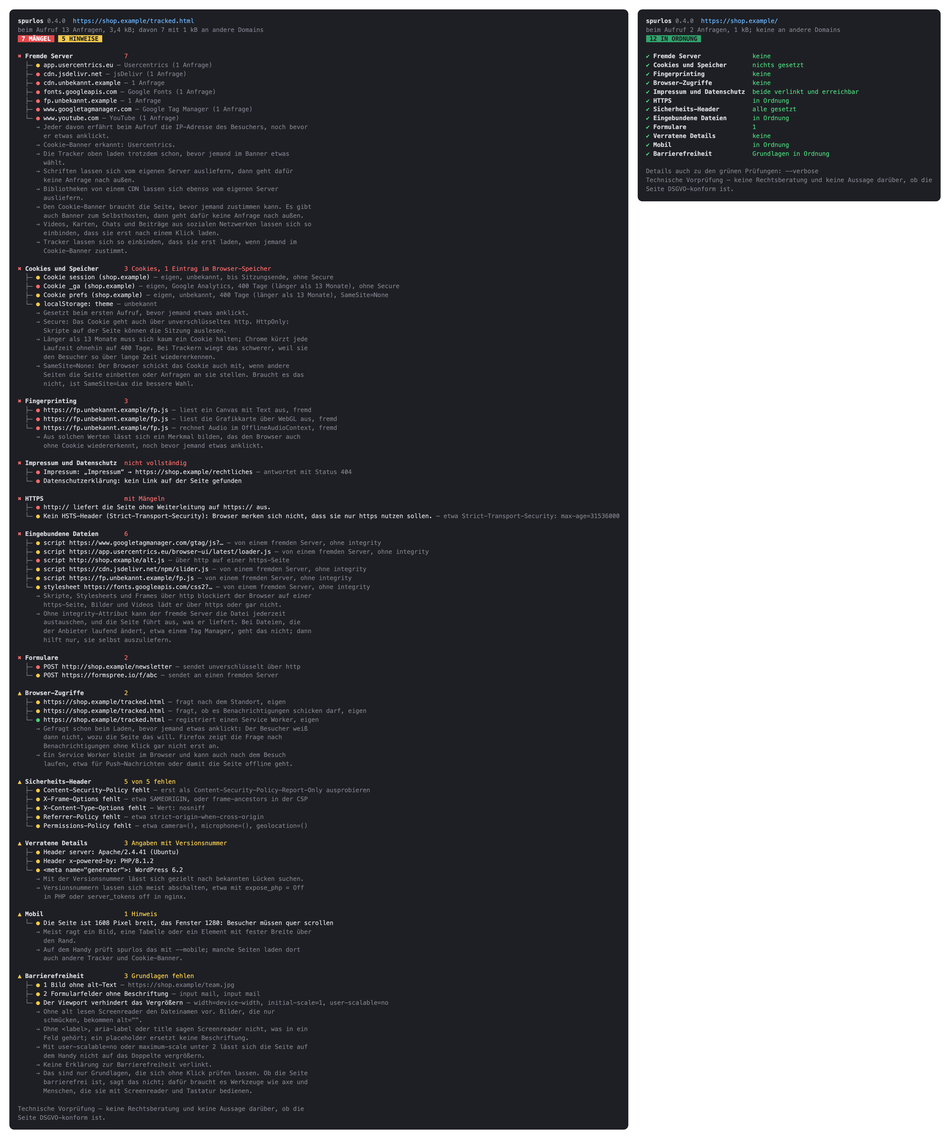
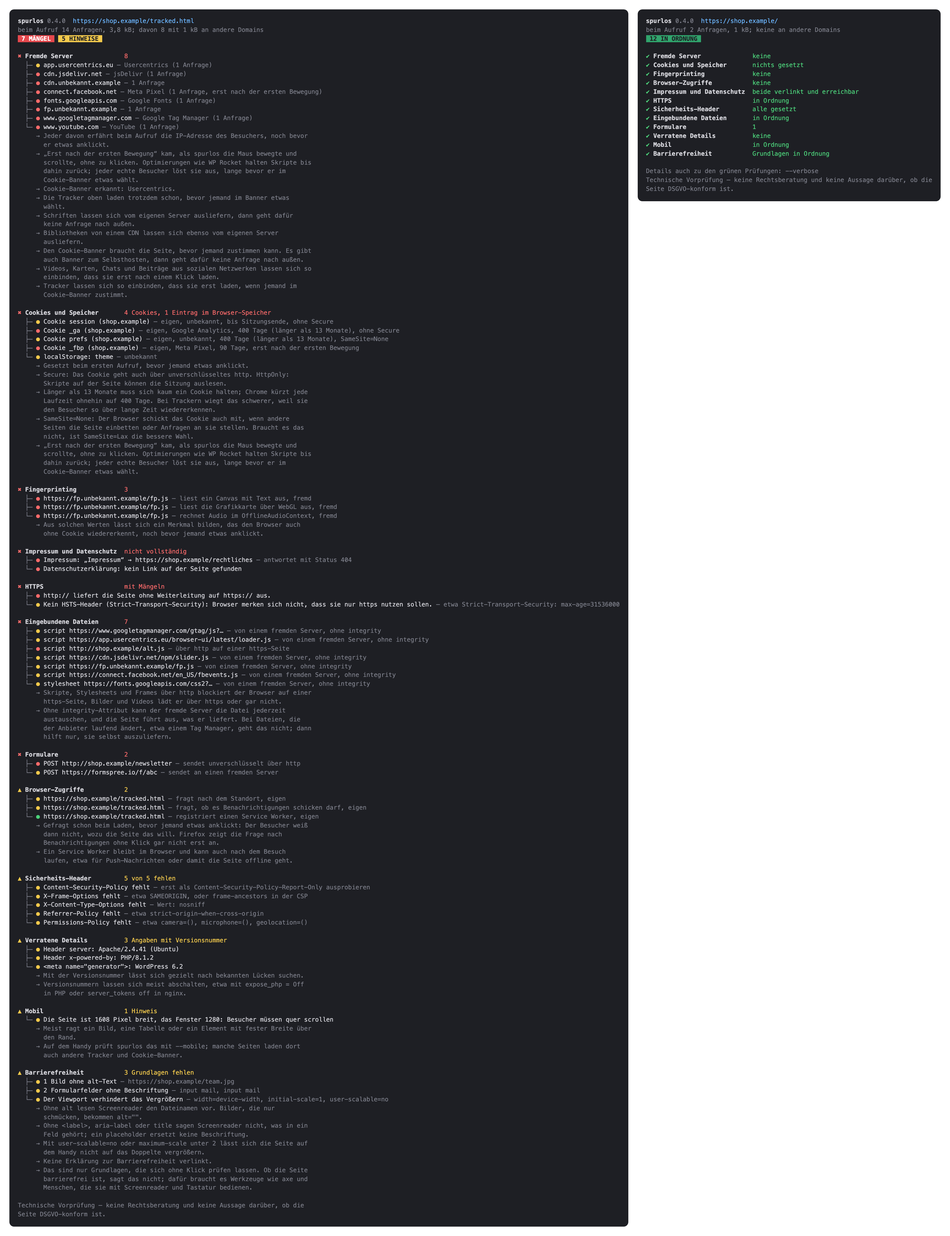
Erste Bewegung: Nach dem Laden bewegt spurlos die Maus und scrollt, ohne zu klicken; Skripte, die Seiten bis dahin zurückhalten (WP Rocket und Co.), zählen mit und sind markiert, in --json als afterMove

Changed region(s): [[0.0, 0.0, 0.4042, 0.9955], [0.653, 0.0, 0.9951, 0.1867]]

diff --git a/examples/mit-maengeln.html b/examples/mit-maengeln.html
@@ -50,8 +50,8 @@ footer { margin-top: 28px; padding-top: 12px; border-top: 1px solid var(--line);
 <div class="top">
 <div>
 <h1>https://shop.example/tracked.html</h1>
-<p class="meta">geprüft am 22. November 2026 um 11:35 MEZ</p>
-<p class="meta">beim Aufruf 13 Anfragen, 3,4 kB; davon 7 mit 1 kB an andere Domains</p>
+<p class="meta">geprüft am 22. November 2026 um 11:47 MEZ</p>
+<p class="meta">beim Aufruf 14 Anfragen, 3,8 kB; davon 8 mit 1 kB an andere Domains</p>
 </div>
 <p class="brand"><svg class="logo light" xmlns="http://www.w3.org/2000/svg" viewBox="0 0 5255.92 1056" role="img" aria-label="spurlos"><title>spurlos</title><g transform="translate(-60.71 -70.67) scale(18.14)"><circle cx="28" cy="28" r="20" fill="none" stroke="#1e1f24" stroke-width="5.5"/><line x1="42.5" y1="42.5" x2="57" y2="57" stroke="#1e1f24" stroke-width="8" stroke-linecap="round"/><circle cx="17.5" cy="28" r="4.6" fill="#e5484d"/><circle cx="28" cy="28" r="4.6" fill="#e0a800"/><circle cx="38.5" cy="28" r="4.6" fill="#1f9d55"/></g><path transform="translate(1195.92 846)" fill="#1e1f24" d="M277 10Q209 10 158 -11.5Q107 -33 78.5 -71Q50 -109 50 -160L200 -160Q200 -136 221.5 -121.5Q243 -107 277 -107L321 -107Q362 -107 383.5 -122Q405 -137 405 -164Q405 -189 386 -202.5Q367 -216 327 -221L263 -229Q160 -242 113 -279Q66 -316 66 -392Q66 -472 121 -516Q176 -560 282 -560L320 -560Q421 -560 481 -516Q541 -472 541 -398L391 -398Q391 -418 371.5 -430.5Q352 -443 320 -443L282 -443Q245 -443 228 -430.5Q211 -418 211 -393Q211 -370 226.5 -358Q242 -346 276 -341L345 -332Q449 -319 499.5 -280Q550 -241 550 -164Q550 -80 492 -35Q434 10 321 10ZM646 180L646 -550L791 -550L791 -445L794 -445Q801 -491 830 -521Q869 -560 937 -560Q1020 -560 1070 -501.5Q1120 -443 1120 -345L1120 -205Q1120 -140 1097.5 -91.5Q1075 -43 1034 -16.5Q993 10 937 10Q869 10 830 -30Q801 -59 794 -105L791 -105L796 30L796 180ZM883 -120Q925 -120 947.5 -143.5Q970 -167 970 -210L970 -340Q970 -384 947.5 -407Q925 -430 883 -430Q842 -430 819 -406.5Q796 -383 796 -340L796 -210Q796 -167 819 -143.5Q842 -120 883 -120ZM1460 10Q1349 10 1286.5 -50Q1224 -110 1224 -214L1224 -550L1374 -550L1374 -215Q1374 -169 1396 -144.5Q1418 -120 1460 -120Q1501 -120 1523.5 -144.5Q1546 -169 1546 -215L1546 -550L1696 -550L1696 -214Q1696 -109 1633 -49.5Q1570 10 1460 10ZM1822 0L1822 -550L1962 -550L1962 -445L1964 -445Q1973 -488 1998 -515Q2039 -560 2118 -560Q2209 -560 2259.5 -505Q2310 -450 2310 -350L2310 -305L2150 -305L2150 -340Q2150 -385 2125.5 -410Q2101 -435 2060 -435Q2017 -435 1994.5 -410Q1972 -385 1972 -340L1972 0ZM2710 0Q2652 0 2608 -24.5Q2564 -49 2539.5 -93Q2515 -137 2515 -195L2515 -595L2345 -595L2345 -730L2665 -730L2665 -195Q2665 -168 2681.5 -151.5Q2698 -135 2725 -135L2885 -135L2885 0ZM3200 10Q3127 10 3073 -17.5Q3019 -45 2989.5 -94.5Q2960 -144 2960 -210L2960 -340Q2960 -406 2989.5 -455.5Q3019 -505 3073 -532.5Q3127 -560 3200 -560Q3274 -560 3327.5 -532.5Q3381 -505 3410.5 -455.5Q3440 -406 3440 -340L3440 -210Q3440 -144 3410.5 -94.5Q3381 -45 3327.5 -17.5Q3274 10 3200 10ZM3200 -120Q3244 -120 3267 -143.5Q3290 -167 3290 -210L3290 -340Q3290 -384 3267 -407Q3244 -430 3200 -430Q3157 -430 3133.5 -407Q3110 -384 3110 -340L3110 -210Q3110 -167 3133.5 -143.5Q3157 -120 3200 -120ZM3757 10Q3689 10 3638 -11.5Q3587 -33 3558.5 -71Q3530 -109 3530 -160L3680 -160Q3680 -136 3701.5 -121.5Q3723 -107 3757 -107L3801 -107Q3842 -107 3863.5 -122Q3885 -137 3885 -164Q3885 -189 3866 -202.5Q3847 -216 3807 -221L3743 -229Q3640 -242 3593 -279Q3546 -316 3546 -392Q3546 -472 3601 -516Q3656 -560 3762 -560L3800 -560Q3901 -560 3961 -516Q4021 -472 4021 -398L3871 -398Q3871 -418 3851.5 -430.5Q3832 -443 3800 -443L3762 -443Q3725 -443 3708 -430.5Q3691 -418 3691 -393Q3691 -370 3706.5 -358Q3722 -346 3756 -341L3825 -332Q3929 -319 3979.5 -280Q4030 -241 4030 -164Q4030 -80 3972 -35Q3914 10 3801 10Z"/></svg>
 <svg class="logo dark" xmlns="http://www.w3.org/2000/svg" viewBox="0 0 5255.92 1056" role="img" aria-label="spurlos"><title>spurlos</title><g transform="translate(-60.71 -70.67) scale(18.14)"><circle cx="28" cy="28" r="20" fill="none" stroke="#e9e9ee" stroke-width="5.5"/><line x1="42.5" y1="42.5" x2="57" y2="57" stroke="#e9e9ee" stroke-width="8" stroke-linecap="round"/><circle cx="17.5" cy="28" r="4.6" fill="#ff6b6b"/><circle cx="28" cy="28" r="4.6" fill="#f2c94c"/><circle cx="38.5" cy="28" r="4.6" fill="#4cd17a"/></g><path transform="translate(1195.92 846)" fill="#e9e9ee" d="M277 10Q209 10 158 -11.5Q107 -33 78.5 -71Q50 -109 50 -160L200 -160Q200 -136 221.5 -121.5Q243 -107 277 -107L321 -107Q362 -107 383.5 -122Q405 -137 405 -164Q405 -189 386 -202.5Q367 -216 327 -221L263 -229Q160 -242 113 -279Q66 -316 66 -392Q66 -472 121 -516Q176 -560 282 -560L320 -560Q421 -560 481 -516Q541 -472 541 -398L391 -398Q391 -418 371.5 -430.5Q352 -443 320 -443L282 -443Q245 -443 228 -430.5Q211 -418 211 -393Q211 -370 226.5 -358Q242 -346 276 -341L345 -332Q449 -319 499.5 -280Q550 -241 550 -164Q550 -80 492 -35Q434 10 321 10ZM646 180L646 -550L791 -550L791 -445L794 -445Q801 -491 830 -521Q869 -560 937 -560Q1020 -560 1070 -501.5Q1120 -443 1120 -345L1120 -205Q1120 -140 1097.5 -91.5Q1075 -43 1034 -16.5Q993 10 937 10Q869 10 830 -30Q801 -59 794 -105L791 -105L796 30L796 180ZM883 -120Q925 -120 947.5 -143.5Q970 -167 970 -210L970 -340Q970 -384 947.5 -407Q925 -430 883 -430Q842 -430 819 -406.5Q796 -383 796 -340L796 -210Q796 -167 819 -143.5Q842 -120 883 -120ZM1460 10Q1349 10 1286.5 -50Q1224 -110 1224 -214L1224 -550L1374 -550L1374 -215Q1374 -169 1396 -144.5Q1418 -120 1460 -120Q1501 -120 1523.5 -144.5Q1546 -169 1546 -215L1546 -550L1696 -550L1696 -214Q1696 -109 1633 -49.5Q1570 10 1460 10ZM1822 0L1822 -550L1962 -550L1962 -445L1964 -445Q1973 -488 1998 -515Q2039 -560 2118 -560Q2209 -560 2259.5 -505Q2310 -450 2310 -350L2310 -305L2150 -305L2150 -340Q2150 -385 2125.5 -410Q2101 -435 2060 -435Q2017 -435 1994.5 -410Q1972 -385 1972 -340L1972 0ZM2710 0Q2652 0 2608 -24.5Q2564 -49 2539.5 -93Q2515 -137 2515 -195L2515 -595L2345 -595L2345 -730L2665 -730L2665 -195Q2665 -168 2681.5 -151.5Q2698 -135 2725 -135L2885 -135L2885 0ZM3200 10Q3127 10 3073 -17.5Q3019 -45 2989.5 -94.5Q2960 -144 2960 -210L2960 -340Q2960 -406 2989.5 -455.5Q3019 -505 3073 -532.5Q3127 -560 3200 -560Q3274 -560 3327.5 -532.5Q3381 -505 3410.5 -455.5Q3440 -406 3440 -340L3440 -210Q3440 -144 3410.5 -94.5Q3381 -45 3327.5 -17.5Q3274 10 3200 10ZM3200 -120Q3244 -120 3267 -143.5Q3290 -167 3290 -210L3290 -340Q3290 -384 3267 -407Q3244 -430 3200 -430Q3157 -430 3133.5 -407Q3110 -384 3110 -340L3110 -210Q3110 -167 3133.5 -143.5Q3157 -120 3200 -120ZM3757 10Q3689 10 3638 -11.5Q3587 -33 3558.5 -71Q3530 -109 3530 -160L3680 -160Q3680 -136 3701.5 -121.5Q3723 -107 3757 -107L3801 -107Q3842 -107 3863.5 -122Q3885 -137 3885 -164Q3885 -189 3866 -202.5Q3847 -216 3807 -221L3743 -229Q3640 -242 3593 -279Q3546 -316 3546 -392Q3546 -472 3601 -516Q3656 -560 3762 -560L3800 -560Q3901 -560 3961 -516Q4021 -472 4021 -398L3871 -398Q3871 -418 3851.5 -430.5Q3832 -443 3800 -443L3762 -443Q3725 -443 3708 -430.5Q3691 -418 3691 -393Q3691 -370 3706.5 -358Q3722 -346 3756 -341L3825 -332Q3929 -319 3979.5 -280Q4030 -241 4030 -164Q4030 -80 3972 -35Q3914 10 3801 10Z"/></svg>
@@ -59,12 +59,12 @@ footer { margin-top: 28px; padding-top: 12px; border-top: 1px solid var(--line);
 </div>
 <p class="summary"><span class="badge red">7 Mängel</span> <span class="badge yellow">5 Hinweise</span></p>
 </header>
-<details class="check red" open><summary class="head"><span class="mark">✖</span><span class="title">Fremde Server</span><span class="value">7</span></summary><ul><li class="yellow">app.usercentrics.eu<span class="detail"> – Usercentrics (1 Anfrage)</span></li><li class="red">cdn.jsdelivr.net<span class="detail"> – jsDelivr (1 Anfrage)</span></li><li class="red">cdn.unbekannt.example<span class="detail"> – 1 Anfrage</span></li><li class="red">fonts.googleapis.com<span class="detail"> – Google Fonts (1 Anfrage)</span></li><li class="red">fp.unbekannt.example<span class="detail"> – 1 Anfrage</span></li><li class="red">www.googletagmanager.com<span class="detail"> – Google Tag Manager (1 Anfrage)</span></li><li class="red">www.youtube.com<span class="detail"> – YouTube (1 Anfrage)</span></li></ul><p class="note">Jeder davon erfährt beim Aufruf die IP-Adresse des Besuchers, noch bevor er etwas anklickt.</p><p class="note">Cookie-Banner erkannt: Usercentrics.</p><p class="note">Die Tracker oben laden trotzdem schon, bevor jemand im Banner etwas wählt.</p><p class="note">Schriften lassen sich vom eigenen Server ausliefern, dann geht dafür keine Anfrage nach außen.</p><p class="note">Bibliotheken von einem CDN lassen sich ebenso vom eigenen Server ausliefern.</p><p class="note">Den Cookie-Banner braucht die Seite, bevor jemand zustimmen kann. Es gibt auch Banner zum Selbsthosten, dann geht dafür keine Anfrage nach außen.</p><p class="note">Videos, Karten, Chats und Beiträge aus sozialen Netzwerken lassen sich so einbinden, dass sie erst nach einem Klick laden.</p><p class="note">Tracker lassen sich so einbinden, dass sie erst laden, wenn jemand im Cookie-Banner zustimmt.</p></details>
-<details class="check red" open><summary class="head"><span class="mark">✖</span><span class="title">Cookies und Speicher</span><span class="value">3 Cookies, 1 Eintrag im Browser-Speicher</span></summary><ul><li class="yellow">Cookie session (shop.example)<span class="detail"> – eigen, unbekannt, bis Sitzungsende, ohne Secure</span></li><li class="red">Cookie _ga (shop.example)<span class="detail"> – eigen, Google Analytics, 400 Tage (länger als 13 Monate), ohne Secure</span></li><li class="yellow">Cookie prefs (shop.example)<span class="detail"> – eigen, unbekannt, 400 Tage (länger als 13 Monate), SameSite=None</span></li><li class="yellow">localStorage: theme<span class="detail"> – unbekannt</span></li></ul><p class="note">Gesetzt beim ersten Aufruf, bevor jemand etwas anklickt.</p><p class="note">Secure: Das Cookie geht auch über unverschlüsseltes http. HttpOnly: Skripte auf der Seite können die Sitzung auslesen.</p><p class="note">Länger als 13 Monate muss sich kaum ein Cookie halten; Chrome kürzt jede Laufzeit ohnehin auf 400 Tage. Bei Trackern wiegt das schwerer, weil sie den Besucher so über lange Zeit wiedererkennen.</p><p class="note">SameSite=None: Der Browser schickt das Cookie auch mit, wenn andere Seiten die Seite einbetten oder Anfragen an sie stellen. Braucht es das nicht, ist SameSite=Lax die bessere Wahl.</p></details>
+<details class="check red" open><summary class="head"><span class="mark">✖</span><span class="title">Fremde Server</span><span class="value">8</span></summary><ul><li class="yellow">app.usercentrics.eu<span class="detail"> – Usercentrics (1 Anfrage)</span></li><li class="red">cdn.jsdelivr.net<span class="detail"> – jsDelivr (1 Anfrage)</span></li><li class="red">cdn.unbekannt.example<span class="detail"> – 1 Anfrage</span></li><li class="red">connect.facebook.net<span class="detail"> – Meta Pixel (1 Anfrage, erst nach der ersten Bewegung)</span></li><li class="red">fonts.googleapis.com<span class="detail"> – Google Fonts (1 Anfrage)</span></li><li class="red">fp.unbekannt.example<span class="detail"> – 1 Anfrage</span></li><li class="red">www.googletagmanager.com<span class="detail"> – Google Tag Manager (1 Anfrage)</span></li><li class="red">www.youtube.com<span class="detail"> – YouTube (1 Anfrage)</span></li></ul><p class="note">Jeder davon erfährt beim Aufruf die IP-Adresse des Besuchers, noch bevor er etwas anklickt.</p><p class="note">„Erst nach der ersten Bewegung“ kam, als spurlos die Maus bewegte und scrollte, ohne zu klicken. Optimierungen wie WP Rocket halten Skripte bis dahin zurück; jeder echte Besucher löst sie aus, lange bevor er im Cookie-Banner etwas wählt.</p><p class="note">Cookie-Banner erkannt: Usercentrics.</p><p class="note">Die Tracker oben laden trotzdem schon, bevor jemand im Banner etwas wählt.</p><p class="note">Schriften lassen sich vom eigenen Server ausliefern, dann geht dafür keine Anfrage nach außen.</p><p class="note">Bibliotheken von einem CDN lassen sich ebenso vom eigenen Server ausliefern.</p><p class="note">Den Cookie-Banner braucht die Seite, bevor jemand zustimmen kann. Es gibt auch Banner zum Selbsthosten, dann geht dafür keine Anfrage nach außen.</p><p class="note">Videos, Karten, Chats und Beiträge aus sozialen Netzwerken lassen sich so einbinden, dass sie erst nach einem Klick laden.</p><p class="note">Tracker lassen sich so einbinden, dass sie erst laden, wenn jemand im Cookie-Banner zustimmt.</p></details>
+<details class="check red" open><summary class="head"><span class="mark">✖</span><span class="title">Cookies und Speicher</span><span class="value">4 Cookies, 1 Eintrag im Browser-Speicher</span></summary><ul><li class="yellow">Cookie session (shop.example)<span class="detail"> – eigen, unbekannt, bis Sitzungsende, ohne Secure</span></li><li class="red">Cookie _ga (shop.example)<span class="detail"> – eigen, Google Analytics, 400 Tage (länger als 13 Monate), ohne Secure</span></li><li class="yellow">Cookie prefs (shop.example)<span class="detail"> – eigen, unbekannt, 400 Tage (länger als 13 Monate), SameSite=None</span></li><li class="red">Cookie _fbp (shop.example)<span class="detail"> – eigen, Meta Pixel, 90 Tage, erst nach der ersten Bewegung</span></li><li class="yellow">localStorage: theme<span class="detail"> – unbekannt</span></li></ul><p class="note">Gesetzt beim ersten Aufruf, bevor jemand etwas anklickt.</p><p class="note">Secure: Das Cookie geht auch über unverschlüsseltes http. HttpOnly: Skripte auf der Seite können die Sitzung auslesen.</p><p class="note">Länger als 13 Monate muss sich kaum ein Cookie halten; Chrome kürzt jede Laufzeit ohnehin auf 400 Tage. Bei Trackern wiegt das schwerer, weil sie den Besucher so über lange Zeit wiedererkennen.</p><p class="note">SameSite=None: Der Browser schickt das Cookie auch mit, wenn andere Seiten die Seite einbetten oder Anfragen an sie stellen. Braucht es das nicht, ist SameSite=Lax die bessere Wahl.</p><p class="note">„Erst nach der ersten Bewegung“ kam, als spurlos die Maus bewegte und scrollte, ohne zu klicken. Optimierungen wie WP Rocket halten Skripte bis dahin zurück; jeder echte Besucher löst sie aus, lange bevor er im Cookie-Banner etwas wählt.</p></details>
 <details class="check red" open><summary class="head"><span class="mark">✖</span><span class="title">Fingerprinting</span><span class="value">3</span></summary><ul><li class="red">https://fp.unbekannt.example/fp.js<span class="detail"> – liest ein Canvas mit Text aus, fremd</span></li><li class="red">https://fp.unbekannt.example/fp.js<span class="detail"> – liest die Grafikkarte über WebGL aus, fremd</span></li><li class="red">https://fp.unbekannt.example/fp.js<span class="detail"> – rechnet Audio im OfflineAudioContext, fremd</span></li></ul><p class="note">Aus solchen Werten lässt sich ein Merkmal bilden, das den Browser auch ohne Cookie wiedererkennt, noch bevor jemand etwas anklickt.</p></details>
 <details class="check red" open><summary class="head"><span class="mark">✖</span><span class="title">Impressum und Datenschutz</span><span class="value">nicht vollständig</span></summary><ul><li class="red">Impressum: „Impressum“ → https://shop.example/rechtliches<span class="detail"> – antwortet mit Status 404</span></li><li class="red">Datenschutzerklärung: kein Link auf der Seite gefunden</li></ul></details>
 <details class="check red" open><summary class="head"><span class="mark">✖</span><span class="title">HTTPS</span><span class="value">mit Mängeln</span></summary><ul><li class="red">http:// liefert die Seite ohne Weiterleitung auf https:// aus.</li><li class="yellow">Kein HSTS-Header (Strict-Transport-Security): Browser merken sich nicht, dass sie nur https nutzen sollen.<span class="detail"> – etwa Strict-Transport-Security: max-age=31536000</span></li></ul></details>
-<details class="check red" open><summary class="head"><span class="mark">✖</span><span class="title">Eingebundene Dateien</span><span class="value">6</span></summary><ul><li class="yellow">script https://www.googletagmanager.com/gtag/js?…<span class="detail"> – von einem fremden Server, ohne integrity</span></li><li class="yellow">script https://app.usercentrics.eu/browser-ui/latest/loader.js<span class="detail"> – von einem fremden Server, ohne integrity</span></li><li class="red">script http://shop.example/alt.js<span class="detail"> – über http auf einer https-Seite</span></li><li class="yellow">script https://cdn.jsdelivr.net/npm/slider.js<span class="detail"> – von einem fremden Server, ohne integrity</span></li><li class="yellow">script https://fp.unbekannt.example/fp.js<span class="detail"> – von einem fremden Server, ohne integrity</span></li><li class="yellow">stylesheet https://fonts.googleapis.com/css2?…<span class="detail"> – von einem fremden Server, ohne integrity</span></li></ul><p class="note">Skripte, Stylesheets und Frames über http blockiert der Browser auf einer https-Seite, Bilder und Videos lädt er über https oder gar nicht.</p><p class="note">Ohne integrity-Attribut kann der fremde Server die Datei jederzeit austauschen, und die Seite führt aus, was er liefert. Bei Dateien, die der Anbieter laufend ändert, etwa einem Tag Manager, geht das nicht; dann hilft nur, sie selbst auszuliefern.</p></details>
+<details class="check red" open><summary class="head"><span class="mark">✖</span><span class="title">Eingebundene Dateien</span><span class="value">7</span></summary><ul><li class="yellow">script https://www.googletagmanager.com/gtag/js?…<span class="detail"> – von einem fremden Server, ohne integrity</span></li><li class="yellow">script https://app.usercentrics.eu/browser-ui/latest/loader.js<span class="detail"> – von einem fremden Server, ohne integrity</span></li><li class="red">script http://shop.example/alt.js<span class="detail"> – über http auf einer https-Seite</span></li><li class="yellow">script https://cdn.jsdelivr.net/npm/slider.js<span class="detail"> – von einem fremden Server, ohne integrity</span></li><li class="yellow">script https://fp.unbekannt.example/fp.js<span class="detail"> – von einem fremden Server, ohne integrity</span></li><li class="yellow">script https://connect.facebook.net/en_US/fbevents.js<span class="detail"> – von einem fremden Server, ohne integrity</span></li><li class="yellow">stylesheet https://fonts.googleapis.com/css2?…<span class="detail"> – von einem fremden Server, ohne integrity</span></li></ul><p class="note">Skripte, Stylesheets und Frames über http blockiert der Browser auf einer https-Seite, Bilder und Videos lädt er über https oder gar nicht.</p><p class="note">Ohne integrity-Attribut kann der fremde Server die Datei jederzeit austauschen, und die Seite führt aus, was er liefert. Bei Dateien, die der Anbieter laufend ändert, etwa einem Tag Manager, geht das nicht; dann hilft nur, sie selbst auszuliefern.</p></details>
 <details class="check red" open><summary class="head"><span class="mark">✖</span><span class="title">Formulare</span><span class="value">2</span></summary><ul><li class="red">POST http://shop.example/newsletter<span class="detail"> – sendet unverschlüsselt über http</span></li><li class="yellow">POST https://formspree.io/f/abc<span class="detail"> – sendet an einen fremden Server</span></li></ul></details>
 <details class="check yellow" open><summary class="head"><span class="mark">▲</span><span class="title">Browser-Zugriffe</span><span class="value">2</span></summary><ul><li class="yellow">https://shop.example/tracked.html<span class="detail"> – fragt nach dem Standort, eigen</span></li><li class="yellow">https://shop.example/tracked.html<span class="detail"> – fragt, ob es Benachrichtigungen schicken darf, eigen</span></li><li class="green">https://shop.example/tracked.html<span class="detail"> – registriert einen Service Worker, eigen</span></li></ul><p class="note">Gefragt schon beim Laden, bevor jemand etwas anklickt: Der Besucher weiß dann nicht, wozu die Seite das will. Firefox zeigt die Frage nach Benachrichtigungen ohne Klick gar nicht erst an.</p><p class="note">Ein Service Worker bleibt im Browser und kann auch nach dem Besuch laufen, etwa für Push-Nachrichten oder damit die Seite offline geht.</p></details>
 <details class="check yellow" open><summary class="head"><span class="mark">▲</span><span class="title">Sicherheits-Header</span><span class="value">5 von 5 fehlen</span></summary><ul><li class="yellow">Content-Security-Policy fehlt<span class="detail"> – erst als Content-Security-Policy-Report-Only ausprobieren</span></li><li class="yellow">X-Frame-Options fehlt<span class="detail"> – etwa SAMEORIGIN, oder frame-ancestors in der CSP</span></li><li class="yellow">X-Content-Type-Options fehlt<span class="detail"> – Wert: nosniff</span></li><li class="yellow">Referrer-Policy fehlt<span class="detail"> – etwa strict-origin-when-cross-origin</span></li><li class="yellow">Permissions-Policy fehlt<span class="detail"> – etwa camera=(), microphone=(), geolocation=()</span></li></ul></details>

diff --git a/src/scan.ts b/src/scan.ts
@@ -57,11 +57,13 @@ export function browserAgent(chromeVersion: string, platform = process.platform,
 
 /**
  * type: as Playwright names it (script, image, fetch …), websocket for a WebSocket and webrtc for a STUN or TURN
- * server, which Playwright does not report as requests; url is then the server's address as the page gave it. bytes: what went over the wire for the answer, headers and encoded body; missing where none came
+ * server, which Playwright does not report as requests; url is then the server's address as the page gave it.
+ * bytes: what went over the wire for the answer, headers and encoded body; missing where none came.
+ * afterMove: it came only once spurlos moved the mouse and scrolled, as scripts held back until then do
  */
-export type Request = { url: string; host: string; type: string; bytes?: number }
+export type Request = { url: string; host: string; type: string; bytes?: number; afterMove?: true }
 /** expires: in seconds since 1970, -1 for a session cookie; sameSite: missing in a scan of an older spurlos */
-export type Cookie = { name: string; domain: string; expires: number; secure: boolean; httpOnly: boolean; sameSite?: 'Strict' | 'Lax' | 'None' }
+export type Cookie = { name: string; domain: string; expires: number; secure: boolean; httpOnly: boolean; sameSite?: 'Strict' | 'Lax' | 'None'; afterMove?: true }
 export type StorageEntry = { area: 'localStorage' | 'sessionStorage'; key: string }
 export type Link = { text: string; href: string }
 export type Form = { action: string; method: string }
@@ -413,16 +415,26 @@ export async function scan(url: string, options: ScanOptions = {}): Promise<Scan
       .waitForLoadState('networkidle', { timeout: options.settleMs ?? 10_000 })
       .then(() => true, () => false)
 
-    const cookies = (await context.cookies()).map(c => ({
+    // what a visitor sees first, cookie banner included; a page that cannot be pictured still gets its report
+    const screenshot = options.screenshot ? await page.screenshot({ type: 'jpeg', quality: 70 }).then(b => b.toString('base64'), () => undefined) : undefined
+
+    // A visitor moves the mouse and scrolls before any click. Optimizers such as WP Rocket hold scripts back until
+    // then, trackers among them: spurlos does the same, clicks nothing, and marks what comes only now.
+    const cookieKey = (c: { name: string; domain: string }) => `${c.name} ${c.domain}`
+    const early = new Set((await context.cookies()).map(cookieKey))
+    const before = requests.length
+    const quiet = await firstMove(page, requests, options.settleMs ?? 10_000)
+    for (const r of requests.slice(before)) r.afterMove = true
+
+    const cookies = (await context.cookies()).map((c): Cookie => ({
       name: c.name,
       domain: c.domain.replace(/^\./, ''),
       expires: c.expires,
       secure: c.secure,
       httpOnly: c.httpOnly,
       sameSite: c.sameSite,
+      ...(early.has(cookieKey(c)) ? {} : { afterMove: true as const }),
     }))
-    // what a visitor sees first, cookie banner included; a page that cannot be pictured still gets its report
-    const screenshot = options.screenshot ? await page.screenshot({ type: 'jpeg', quality: 70 }).then(b => b.toString('base64'), () => undefined) : undefined
     const { storage, links, forms, resources, metaCsp, metaReferrer, generator, accessibility, preconnect, width } = await page.evaluate(() => {
       const storage: StorageEntry[] = []
       for (const area of ['localStorage', 'sessionStorage'] as const) {
@@ -494,7 +506,7 @@ export async function scan(url: string, options: ScanOptions = {}): Promise<Scan
     const result: Scan = {
       url,
       finalUrl,
-      settled,
+      settled: settled && quiet,
       requests,
       cookies,
       storage,
@@ -531,6 +543,33 @@ export async function scan(url: string, options: ScanOptions = {}): Promise<Scan
   } finally {
     await browser.close()
   }
+}
+
+/**
+ * Moves the mouse over the page and scrolls a little, without a click, as a visitor does before deciding anything;
+ * then waits until no request has come for a second, at most half the settle time. Back at the top afterwards, so the
+ * page is read as it was first shown. False when requests kept coming.
+ */
+async function firstMove(page: Page, requests: Request[], settleMs: number): Promise<boolean> {
+  try {
+    await page.mouse.move(120, 120)
+    await page.mouse.move(360, 280, { steps: 5 })
+    await page.mouse.wheel(0, 400)
+  } catch {
+    // a page that will not be moved over still gets its report
+  }
+  const end = Date.now() + settleMs / 2
+  let count = requests.length
+  let since = Date.now()
+  while (Date.now() < end) {
+    await page.waitForTimeout(250)
+    if (requests.length !== count) {
+      count = requests.length
+      since = Date.now()
+    } else if (Date.now() - since >= 1000) break
+  }
+  await page.evaluate(() => window.scrollTo(0, 0)).catch(() => {})
+  return Date.now() < end
 }
 
 /** A second, separate browser for opening single URLs: only the documents load, nothing of it counts towards the scan. */

diff --git a/examples/sauber.html b/examples/sauber.html
@@ -50,7 +50,7 @@ footer { margin-top: 28px; padding-top: 12px; border-top: 1px solid var(--line);
 <div class="top">
 <div>
 <h1>https://shop.example/</h1>
-<p class="meta">geprüft am 22. November 2026 um 11:35 MEZ</p>
+<p class="meta">geprüft am 22. November 2026 um 11:47 MEZ</p>
 <p class="meta">beim Aufruf 2 Anfragen, 1 kB; keine an andere Domains</p>
 </div>
 <p class="brand"><svg class="logo light" xmlns="http://www.w3.org/2000/svg" viewBox="0 0 5255.92 1056" role="img" aria-label="spurlos"><title>spurlos</title><g transform="translate(-60.71 -70.67) scale(18.14)"><circle cx="28" cy="28" r="20" fill="none" stroke="#1e1f24" stroke-width="5.5"/><line x1="42.5" y1="42.5" x2="57" y2="57" stroke="#1e1f24" stroke-width="8" stroke-linecap="round"/><circle cx="17.5" cy="28" r="4.6" fill="#e5484d"/><circle cx="28" cy="28" r="4.6" fill="#e0a800"/><circle cx="38.5" cy="28" r="4.6" fill="#1f9d55"/></g><path transform="translate(1195.92 846)" fill="#1e1f24" d="M277 10Q209 10 158 -11.5Q107 -33 78.5 -71Q50 -109 50 -160L200 -160Q200 -136 221.5 -121.5Q243 -107 277 -107L321 -107Q362 -107 383.5 -122Q405 -137 405 -164Q405 -189 386 -202.5Q367 -216 327 -221L263 -229Q160 -242 113 -279Q66 -316 66 -392Q66 -472 121 -516Q176 -560 282 -560L320 -560Q421 -560 481 -516Q541 -472 541 -398L391 -398Q391 -418 371.5 -430.5Q352 -443 320 -443L282 -443Q245 -443 228 -430.5Q211 -418 211 -393Q211 -370 226.5 -358Q242 -346 276 -341L345 -332Q449 -319 499.5 -280Q550 -241 550 -164Q550 -80 492 -35Q434 10 321 10ZM646 180L646 -550L791 -550L791 -445L794 -445Q801 -491 830 -521Q869 -560 937 -560Q1020 -560 1070 -501.5Q1120 -443 1120 -345L1120 -205Q1120 -140 1097.5 -91.5Q1075 -43 1034 -16.5Q993 10 937 10Q869 10 830 -30Q801 -59 794 -105L791 -105L796 30L796 180ZM883 -120Q925 -120 947.5 -143.5Q970 -167 970 -210L970 -340Q970 -384 947.5 -407Q925 -430 883 -430Q842 -430 819 -406.5Q796 -383 796 -340L796 -210Q796 -167 819 -143.5Q842 -120 883 -120ZM1460 10Q1349 10 1286.5 -50Q1224 -110 1224 -214L1224 -550L1374 -550L1374 -215Q1374 -169 1396 -144.5Q1418 -120 1460 -120Q1501 -120 1523.5 -144.5Q1546 -169 1546 -215L1546 -550L1696 -550L1696 -214Q1696 -109 1633 -49.5Q1570 10 1460 10ZM1822 0L1822 -550L1962 -550L1962 -445L1964 -445Q1973 -488 1998 -515Q2039 -560 2118 -560Q2209 -560 2259.5 -505Q2310 -450 2310 -350L2310 -305L2150 -305L2150 -340Q2150 -385 2125.5 -410Q2101 -435 2060 -435Q2017 -435 1994.5 -410Q1972 -385 1972 -340L1972 0ZM2710 0Q2652 0 2608 -24.5Q2564 -49 2539.5 -93Q2515 -137 2515 -195L2515 -595L2345 -595L2345 -730L2665 -730L2665 -195Q2665 -168 2681.5 -151.5Q2698 -135 2725 -135L2885 -135L2885 0ZM3200 10Q3127 10 3073 -17.5Q3019 -45 2989.5 -94.5Q2960 -144 2960 -210L2960 -340Q2960 -406 2989.5 -455.5Q3019 -505 3073 -532.5Q3127 -560 3200 -560Q3274 -560 3327.5 -532.5Q3381 -505 3410.5 -455.5Q3440 -406 3440 -340L3440 -210Q3440 -144 3410.5 -94.5Q3381 -45 3327.5 -17.5Q3274 10 3200 10ZM3200 -120Q3244 -120 3267 -143.5Q3290 -167 3290 -210L3290 -340Q3290 -384 3267 -407Q3244 -430 3200 -430Q3157 -430 3133.5 -407Q3110 -384 3110 -340L3110 -210Q3110 -167 3133.5 -143.5Q3157 -120 3200 -120ZM3757 10Q3689 10 3638 -11.5Q3587 -33 3558.5 -71Q3530 -109 3530 -160L3680 -160Q3680 -136 3701.5 -121.5Q3723 -107 3757 -107L3801 -107Q3842 -107 3863.5 -122Q3885 -137 3885 -164Q3885 -189 3866 -202.5Q3847 -216 3807 -221L3743 -229Q3640 -242 3593 -279Q3546 -316 3546 -392Q3546 -472 3601 -516Q3656 -560 3762 -560L3800 -560Q3901 -560 3961 -516Q4021 -472 4021 -398L3871 -398Q3871 -418 3851.5 -430.5Q3832 -443 3800 -443L3762 -443Q3725 -443 3708 -430.5Q3691 -418 3691 -393Q3691 -370 3706.5 -358Q3722 -346 3756 -341L3825 -332Q3929 -319 3979.5 -280Q4030 -241 4030 -164Q4030 -80 3972 -35Q3914 10 3801 10Z"/></svg>

diff --git a/src/checks.ts b/src/checks.ts
@@ -18,8 +18,11 @@ export type Service = { name: string; category: string; hosts: string[]; cookies
  * on doctolib.de).
  */
 export type OwnReason = 'option' | 'certificate' | 'name' | 'platform'
-/** preconnect: no request went to it, the page only opened a connection ahead (<link rel="preconnect">, Link header) */
-export type ThirdParty = { host: string; service: Service | undefined; requests: number; own?: OwnReason; preconnect?: true }
+/**
+ * preconnect: no request went to it, the page only opened a connection ahead (<link rel="preconnect">, Link header) ·
+ * afterMove: every request to it came only once spurlos moved the mouse and scrolled
+ */
+export type ThirdParty = { host: string; service: Service | undefined; requests: number; own?: OwnReason; preconnect?: true; afterMove?: true }
 /**
  * missing: attributes the cookie should have – Secure on an https page, HttpOnly for a session cookie ·
  * own: set on another site's domain that seems to belong to the page · long: it lives longer than 13 months
@@ -224,6 +227,8 @@ export function thirdParty(scan: Scan): Result {
   const own = ownSites(scan)
   const owner = ownership(scan)
   const counts = new Map<string, number>()
+  // hosts with a request before the first move
+  const early = new Set<string>()
   const byPath = new Map<string, Service>()
   const selfHosted = new Set<string>()
   for (const r of scan.requests) {
@@ -234,6 +239,7 @@ export function thirdParty(scan: Scan): Result {
       continue
     }
     counts.set(r.host, (counts.get(r.host) ?? 0) + 1)
+    if (!r.afterMove) early.add(r.host)
     if (service && !byPath.has(r.host)) byPath.set(r.host, service)
   }
   // a connection opened ahead hands over the IP as well, in the TLS handshake, though no request follows
@@ -245,7 +251,7 @@ export function thirdParty(scan: Scan): Result {
   const hosts = [...counts, ...[...ahead].map(h => [h, 0] as const)]
     .map(([host, requests]): ThirdParty => {
       const reason = owner(host)
-      return { host, service: serviceOfHost(host) ?? byPath.get(host), requests, ...(reason ? { own: reason } : {}), ...(requests ? {} : { preconnect: true as const }) }
+      return { host, service: serviceOfHost(host) ?? byPath.get(host), requests, ...(reason ? { own: reason } : {}), ...(requests ? {} : { preconnect: true as const }), ...(requests && !early.has(host) ? { afterMove: true as const } : {}) }
     })
     .sort((a, b) => a.host.localeCompare(b.host))
   const platform = platformOf(scan)

diff --git a/src/report.ts b/src/report.ts
@@ -74,7 +74,7 @@ function unkeyed(t: Messages, r: Result, now: number): Section {
         value: `${r.hosts.length}`,
         items: r.hosts.map(h => {
           const about = [h.service?.name, h.own ? t.ownBy[h.own] : undefined].filter(Boolean).join(', ') || undefined
-          const count = h.preconnect ? t.preconnectOnly : t.requests(h.requests)
+          const count = h.preconnect ? t.preconnectOnly : t.requests(h.requests) + (h.afterMove ? `, ${t.afterMove}` : '')
           return item(key.host(h.host), hostLevel(h), h.host, about ? `${about} (${count})` : count)
         }),
         notes: [
@@ -82,6 +82,7 @@ function unkeyed(t: Messages, r: Result, now: number): Section {
           ...(r.platform && r.hosts.some(h => h.own === 'platform') ? [t.platformNote(r.platform)] : []),
           ...(r.hosts.some(h => h.own && h.own !== 'platform') ? [t.ownNote] : []),
           ...(r.hosts.some(h => h.preconnect) ? [t.preconnectNote] : []),
+          ...(r.hosts.some(h => h.afterMove) ? [t.afterMoveNote] : []),
           ...selfHosted,
           ...consent,
           ...hints.filter(n => n !== null),
@@ -97,6 +98,7 @@ function unkeyed(t: Messages, r: Result, now: number): Section {
             c.own ? t.ownBy[c.own] : c.thirdParty ? t.cookieForeign : t.cookieOwn,
             c.service?.name ?? t.unknown,
             lifetime(t, c.expires, now) + (c.long ? ` (${t.cookieLong})` : ''),
+            ...(c.afterMove ? [t.afterMove] : []),
             ...(c.missing.length ? [t.cookieMissing(c.missing)] : []),
             // a third-party cookie needs it to be sent at all
             ...(c.sameSite === 'None' && !c.thirdParty ? ['SameSite=None'] : []),
@@ -110,7 +112,8 @@ function unkeyed(t: Messages, r: Result, now: number): Section {
       const missing = r.cookies.some(c => c.missing.length) ? t.cookieMissingNote : null
       const long = r.cookies.some(c => c.long) ? t.cookieLongNote : null
       const sameSite = r.cookies.some(c => c.sameSite === 'None' && !c.thirdParty) ? t.cookieSameSiteNote : null
-      return { value: t.cookies(r.cookies.length, r.storage.length), items, notes: [t.cookiesBefore, note, missing, long, sameSite].filter(n => n !== null) }
+      const moved = r.cookies.some(c => c.afterMove) ? t.afterMoveNote : null
+      return { value: t.cookies(r.cookies.length, r.storage.length), items, notes: [t.cookiesBefore, note, missing, long, sameSite, moved].filter(n => n !== null) }
     }
 
     case 'legal':

diff --git a/test/scan.test.ts b/test/scan.test.ts
@@ -95,7 +95,7 @@ describe('scan', { timeout: 30_000 }, () => {
 
     const cookies = pick(results, 'cookies')
     expect(cookies.level).toBe('red')
-    expect(cookies.cookies.map(c => c.name).sort()).toEqual(['_ga', 'prefs', 'session'])
+    expect(cookies.cookies.map(c => c.name).sort()).toEqual(['_fbp', '_ga', 'prefs', 'session'])
     expect(cookies.storage).toEqual([{ area: 'localStorage', key: 'theme', service: undefined }])
 
     const legal = pick(results, 'legal')
@@ -151,11 +151,16 @@ describe('scan', { timeout: 30_000 }, () => {
     })
     // the table of fixed width sticks out of the window
     expect(pick(results, 'mobile')).toMatchObject({ level: 'yellow', problems: ['overflow'], mobile: false })
+    // the pixel and its cookie come only with the first move of the mouse, which spurlos makes without clicking
+    expect(third.hosts.find(h => h.host === 'connect.facebook.net')).toMatchObject({ requests: 1, afterMove: true })
+    expect(third.hosts.find(h => h.host === 'fonts.googleapis.com')?.afterMove).toBeUndefined()
+    expect(cookies.cookies.find(c => c.name === '_fbp')).toMatchObject({ afterMove: true, service: { name: 'Meta Pixel' } })
     // set without Secure on an https page
     expect(pick(results, 'cookies').cookies.find(c => c.name === 'session')?.missing).toEqual(['Secure'])
 
     const report = text(s, results, 'de')
     expect(report).toContain('Google Fonts')
+    expect(report).toContain('connect.facebook.net – Meta Pixel (1 Anfrage, erst nach der ersten Bewegung)')
     expect(report).toMatch(/^beim Aufruf \d+ Anfragen, [\d,]+ kB; davon \d+ mit [\d,]+ kB an andere Domains$/m)
     expect(report).toContain('🔴 https://fp.unbekannt.example/fp.js – liest ein Canvas mit Text aus, fremd')
     expect(report).toContain('🟡 https://shop.example/tracked.html – fragt nach dem Standort, eigen')

diff --git a/test/checks.test.ts b/test/checks.test.ts
@@ -164,6 +164,16 @@ describe('thirdParty', () => {
     expect(r).toMatchObject({ level: 'green', hosts: [] })
   })
 
+  test('a host is marked as coming after the first move only when every request to it did', () => {
+    const at = (host: string, afterMove: boolean) => ({ ...req(host), ...(afterMove ? { afterMove: true as const } : {}) })
+    const r = thirdParty({ ...base, requests: [at('connect.facebook.net', true), at('cdn.anders.de', false), at('cdn.anders.de', true)] })
+    if (r.check !== 'third-party') throw new Error()
+    expect(r.hosts.map(h => [h.host, h.afterMove])).toEqual([
+      ['cdn.anders.de', undefined],
+      ['connect.facebook.net', true],
+    ])
+  })
+
   test('other sites are red and counted per host', () => {
     const r = thirdParty({ ...base, requests: [req('fonts.gstatic.com'), req('fonts.gstatic.com'), req('cdn.anders.de')] })
     expect(r.level).toBe('red')

diff --git a/src/lang/de.ts b/src/lang/de.ts
@@ -113,6 +113,8 @@ Hilft dir spurlos? https://ko-fi.com/mmohrx`,
   thirdPartyNone: 'Beim Aufruf ging keine Anfrage an einen anderen Server.',
   thirdParty: 'Jeder davon erfährt beim Aufruf die IP-Adresse des Besuchers, noch bevor er etwas anklickt.',
   requests: (n: number) => plural(n, 'Anfrage', 'Anfragen'),
+  afterMove: 'erst nach der ersten Bewegung',
+  afterMoveNote: '„Erst nach der ersten Bewegung“ kam, als spurlos die Maus bewegte und scrollte, ohne zu klicken. Optimierungen wie WP Rocket halten Skripte bis dahin zurück; jeder echte Besucher löst sie aus, lange bevor er im Cookie-Banner etwas wählt.',
   preconnectOnly: 'nur preconnect, keine Anfrage',
   preconnectNote: 'Mit preconnect baut der Browser die Verbindung schon vorab auf; der Server erfährt die IP-Adresse dabei, auch wenn keine Anfrage folgt. Wird er nicht gebraucht, gehört der Hinweis weg.',
   thirdPartyHint: {

diff --git a/src/lang/en.ts b/src/lang/en.ts
@@ -110,6 +110,8 @@ Does spurlos help you? https://ko-fi.com/mmohrx`,
   thirdPartyNone: 'Opening the page sent no request to another server.',
   thirdParty: "Each of them learns the visitor's IP address on opening the page, before any click.",
   requests: n => plural(n, 'request', 'requests'),
+  afterMove: 'only after the first move',
+  afterMoveNote: '“Only after the first move” came when spurlos moved the mouse and scrolled, without clicking. Optimizers such as WP Rocket hold scripts back until then; every real visitor sets them off, long before choosing anything in the cookie banner.',
   preconnectOnly: 'only preconnect, no request',
   preconnectNote: 'With preconnect, the browser sets up the connection in advance; the server learns the IP address then, even if no request follows. If it is not needed, the hint should go.',
   thirdPartyHint: {

diff --git a/test/sites/tracked.html b/test/sites/tracked.html
@@ -17,6 +17,13 @@
     const c = document.createElement('canvas'), x = c.getContext('2d')
     x.fillText('\u{1F3F3}\uFE0F\u200D\u26A7\uFE0F', 0, 0)
     x.getImageData(0, 0, c.width, c.height)
+    // held back until the first move, as WP Rocket does with "Delay JavaScript execution"
+    addEventListener('mousemove', () => {
+      const pixel = document.createElement('script')
+      pixel.src = 'https://connect.facebook.net/en_US/fbevents.js'
+      document.head.append(pixel)
+      document.cookie = '_fbp=fb.1.123.456; max-age=7776000; path=/; Secure'
+    }, { once: true })
     // asked right on load, before any click
     navigator.geolocation.getCurrentPosition(() => {}, () => {})
     Notification.requestPermission().catch(() => {})

diff --git a/README.md b/README.md
@@ -34,7 +34,7 @@ Links eine Seite mit Mängeln, rechts eine saubere:
 
 Die vollständigen Berichte beider Seiten, als Text auf Deutsch und Englisch und als JSON, liegen in [`examples/`](examples/), dazu je eine HTML-Seite. Beide Seiten stammen aus den Tests und laufen offline unter `https://shop.example`; `pnpm examples` erzeugt alles neu.
 
-spurlos nutzt einen echten Browser (Chromium über Playwright). Es findet also auch Anfragen und Cookies, die erst per JavaScript entstehen. Impressum, Datenschutzerklärung und die http-Adresse ruft es getrennt davon auf; diese Aufrufe zählen nicht zu den Anfragen und Cookies der Seite. Ob http auf https weiterleitet, fragt es direkt beim Server und nicht über den Browser nach, denn Chromium wechselt von sich aus auf https.
+spurlos nutzt einen echten Browser (Chromium über Playwright). Es findet also auch Anfragen und Cookies, die erst per JavaScript entstehen. Nach dem Laden bewegt es einmal die Maus und scrollt ein Stück, ohne zu klicken, denn viele Seiten halten Skripte bis zur ersten Bewegung zurück; was erst dann kommt, markiert der Bericht. Impressum, Datenschutzerklärung und die http-Adresse ruft es getrennt davon auf; diese Aufrufe zählen nicht zu den Anfragen und Cookies der Seite. Ob http auf https weiterleitet, fragt es direkt beim Server und nicht über den Browser nach, denn Chromium wechselt von sich aus auf https.
 
 Mit welcher Browserkennung spurlos die Seite aufruft und wie es mit Bot-Schutz und Anmeldungen umgeht, steht in [docs/de/how-it-works.md](docs/de/how-it-works.md).
 
@@ -78,7 +78,7 @@ Oben steht die Bilanz, darunter die Prüfungen mit den roten zuerst. Rote und ge
 | `SPURLOS_NO_SANDBOX` | `1` startet Chromium gleich ohne Sandbox und ohne Hinweis darauf; das Docker-Image setzt das, dort ist der Container die Grenze |
 | `NO_COLOR` | keine Farben, auch im Terminal |
 
-Die Seite selbst darf bis zu 30 Sekunden zum Laden brauchen. Danach wartet spurlos bis zu 10 Sekunden, bis sie nichts mehr nachlädt; lädt sie dann noch, sagt der Bericht das. Impressum, Datenschutzerklärung und die Anfrage über http bekommen je 15 Sekunden.
+Die Seite selbst darf bis zu 30 Sekunden zum Laden brauchen. Danach wartet spurlos bis zu 10 Sekunden, bis sie nichts mehr nachlädt, und nach der ersten Bewegung der Maus noch einmal bis zu 5 Sekunden; lädt sie dann noch, sagt der Bericht das. Impressum, Datenschutzerklärung und die Anfrage über http bekommen je 15 Sekunden.
 
 spurlos selbst meldet nichts nach Hause: keine Telemetrie, keine Statistik. Angefragt wird nur die Seite, die du prüfst, samt allem, was sie selbst nachlädt.
 

diff --git a/README.en.md b/README.en.md
@@ -34,7 +34,7 @@ On the left a page with problems, on the right a clean one:
 
 The full reports for both pages, as text in German and English and as JSON, are in [`examples/`](examples/), along with an HTML page each. Both pages come from the tests and run offline as `https://shop.example`; `pnpm examples` regenerates everything.
 
-spurlos uses a real browser (Chromium via Playwright), so it also finds requests and cookies that only JavaScript creates. It opens the legal notice, the privacy policy and the http address separately; those visits do not count towards the page's requests and cookies. Whether http redirects to https is asked of the server directly rather than through the browser, since Chromium switches to https on its own.
+spurlos uses a real browser (Chromium via Playwright), so it also finds requests and cookies that only JavaScript creates. After loading, it moves the mouse once and scrolls a little, without clicking, as many sites hold scripts back until the first move; the report marks what comes only then. It opens the legal notice, the privacy policy and the http address separately; those visits do not count towards the page's requests and cookies. Whether http redirects to https is asked of the server directly rather than through the browser, since Chromium switches to https on its own.
 
 Which user agent spurlos visits the site with and how it handles bot protection and logins is in [docs/en/how-it-works.md](docs/en/how-it-works.md).
 
@@ -78,7 +78,7 @@ The summary comes first, then the checks, red ones first. Red and yellow checks 
 | `SPURLOS_NO_SANDBOX` | `1` starts Chromium without a sandbox right away, and without a note about it; the Docker image sets it, there the container is the boundary |
 | `NO_COLOR` | no colors, even in a terminal |
 
-The page itself may take up to 30 seconds to load. After that spurlos waits up to 10 seconds for it to stop loading more; if it still does, the report says so. Impressum, privacy policy and the request over http get 15 seconds each.
+The page itself may take up to 30 seconds to load. After that spurlos waits up to 10 seconds for it to stop loading more, and after the first move of the mouse up to 5 seconds again; if it still does, the report says so. Impressum, privacy policy and the request over http get 15 seconds each.
 
 spurlos itself does not phone home: no telemetry, no statistics. It requests only the page you check, plus whatever that page loads itself.
 
